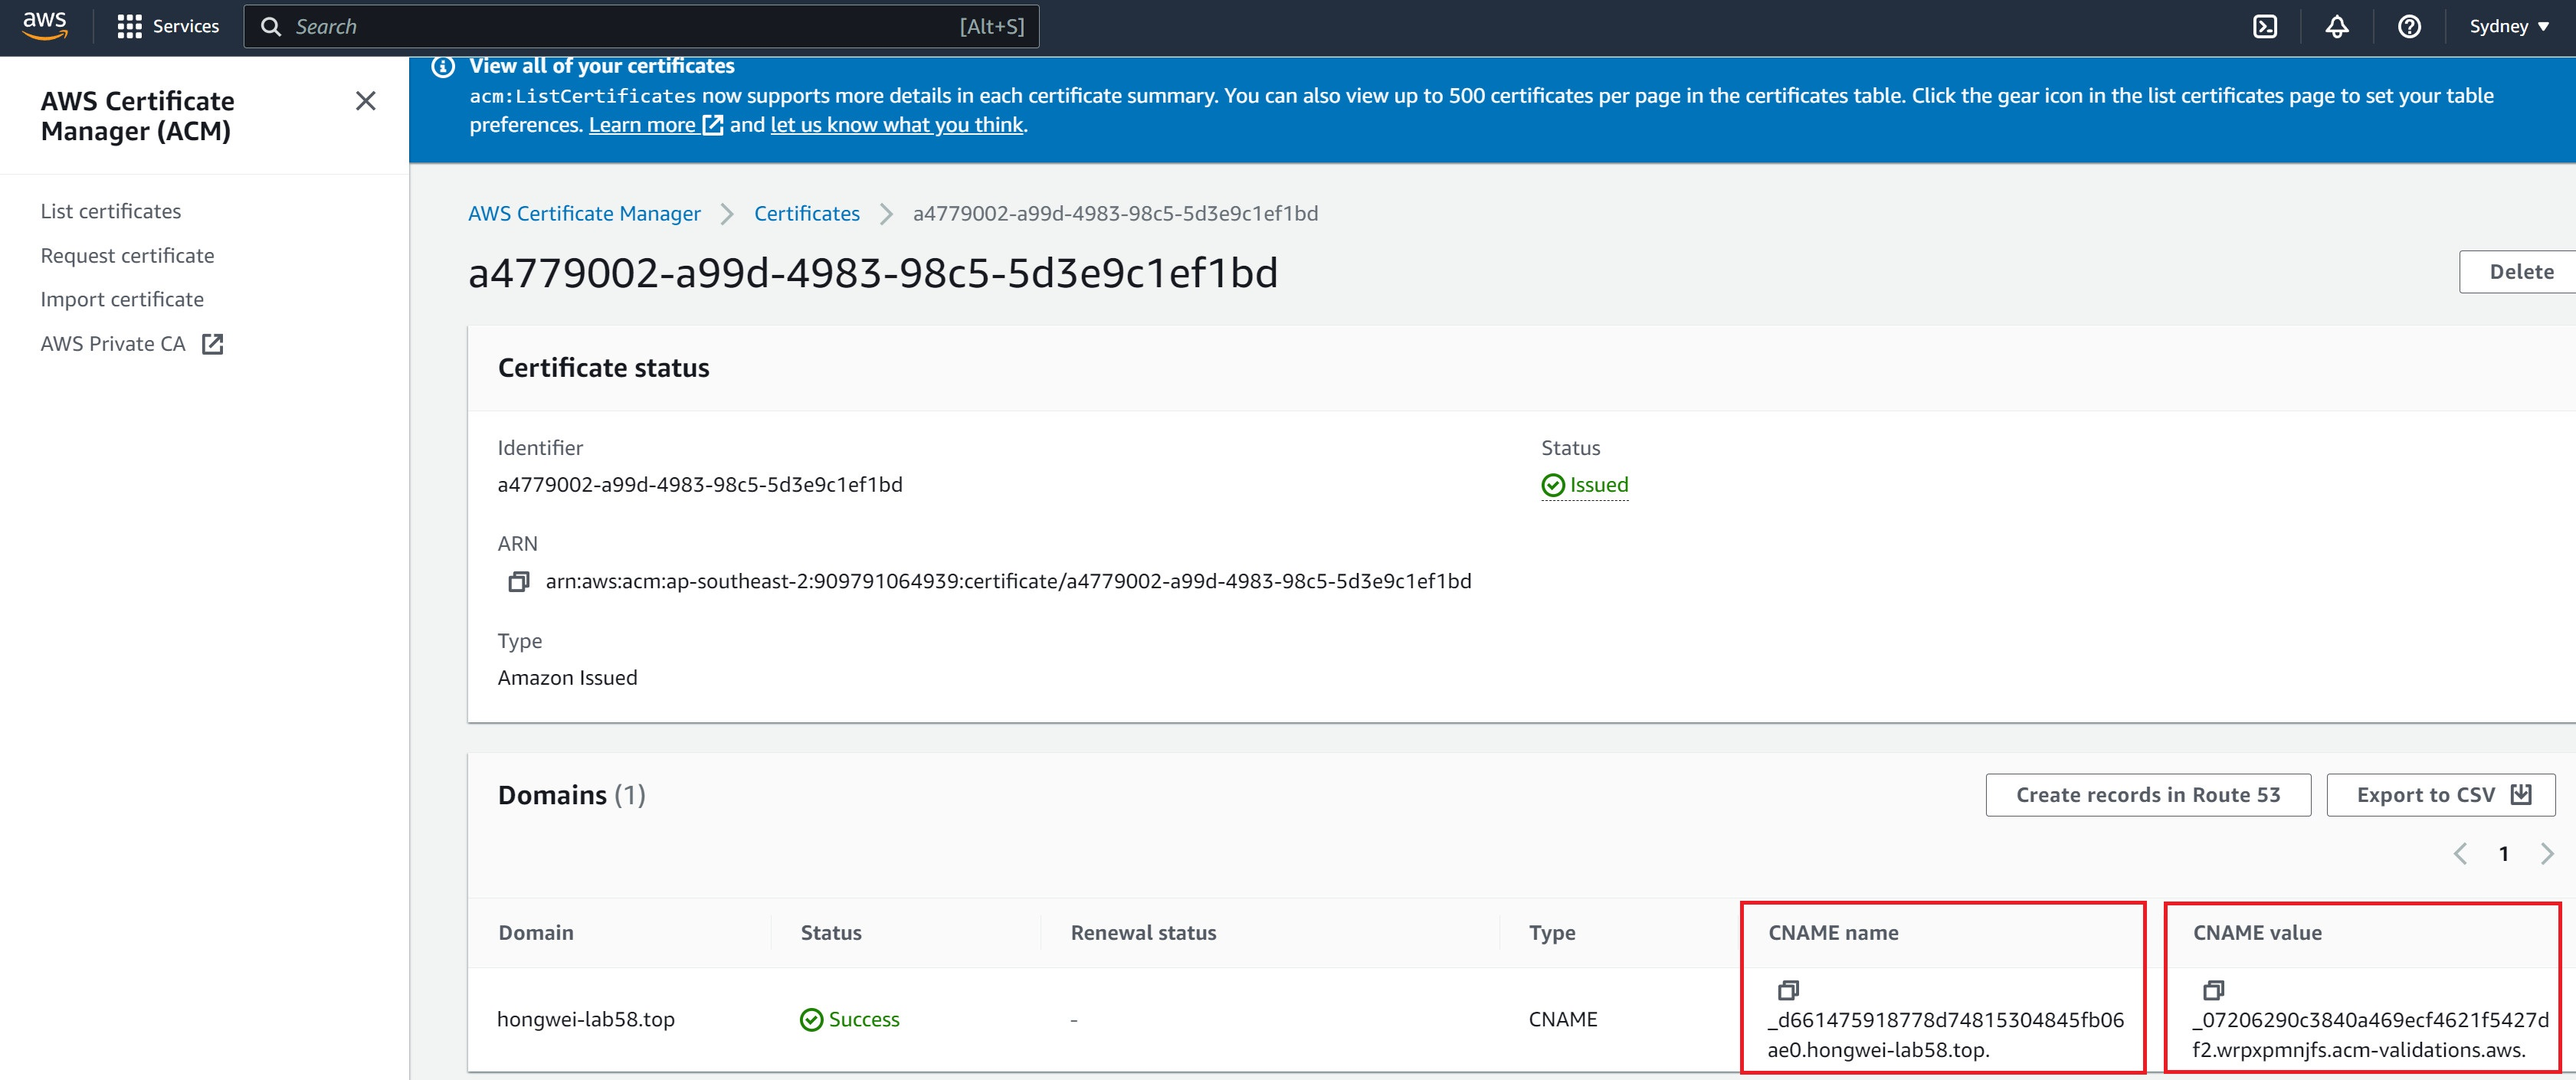
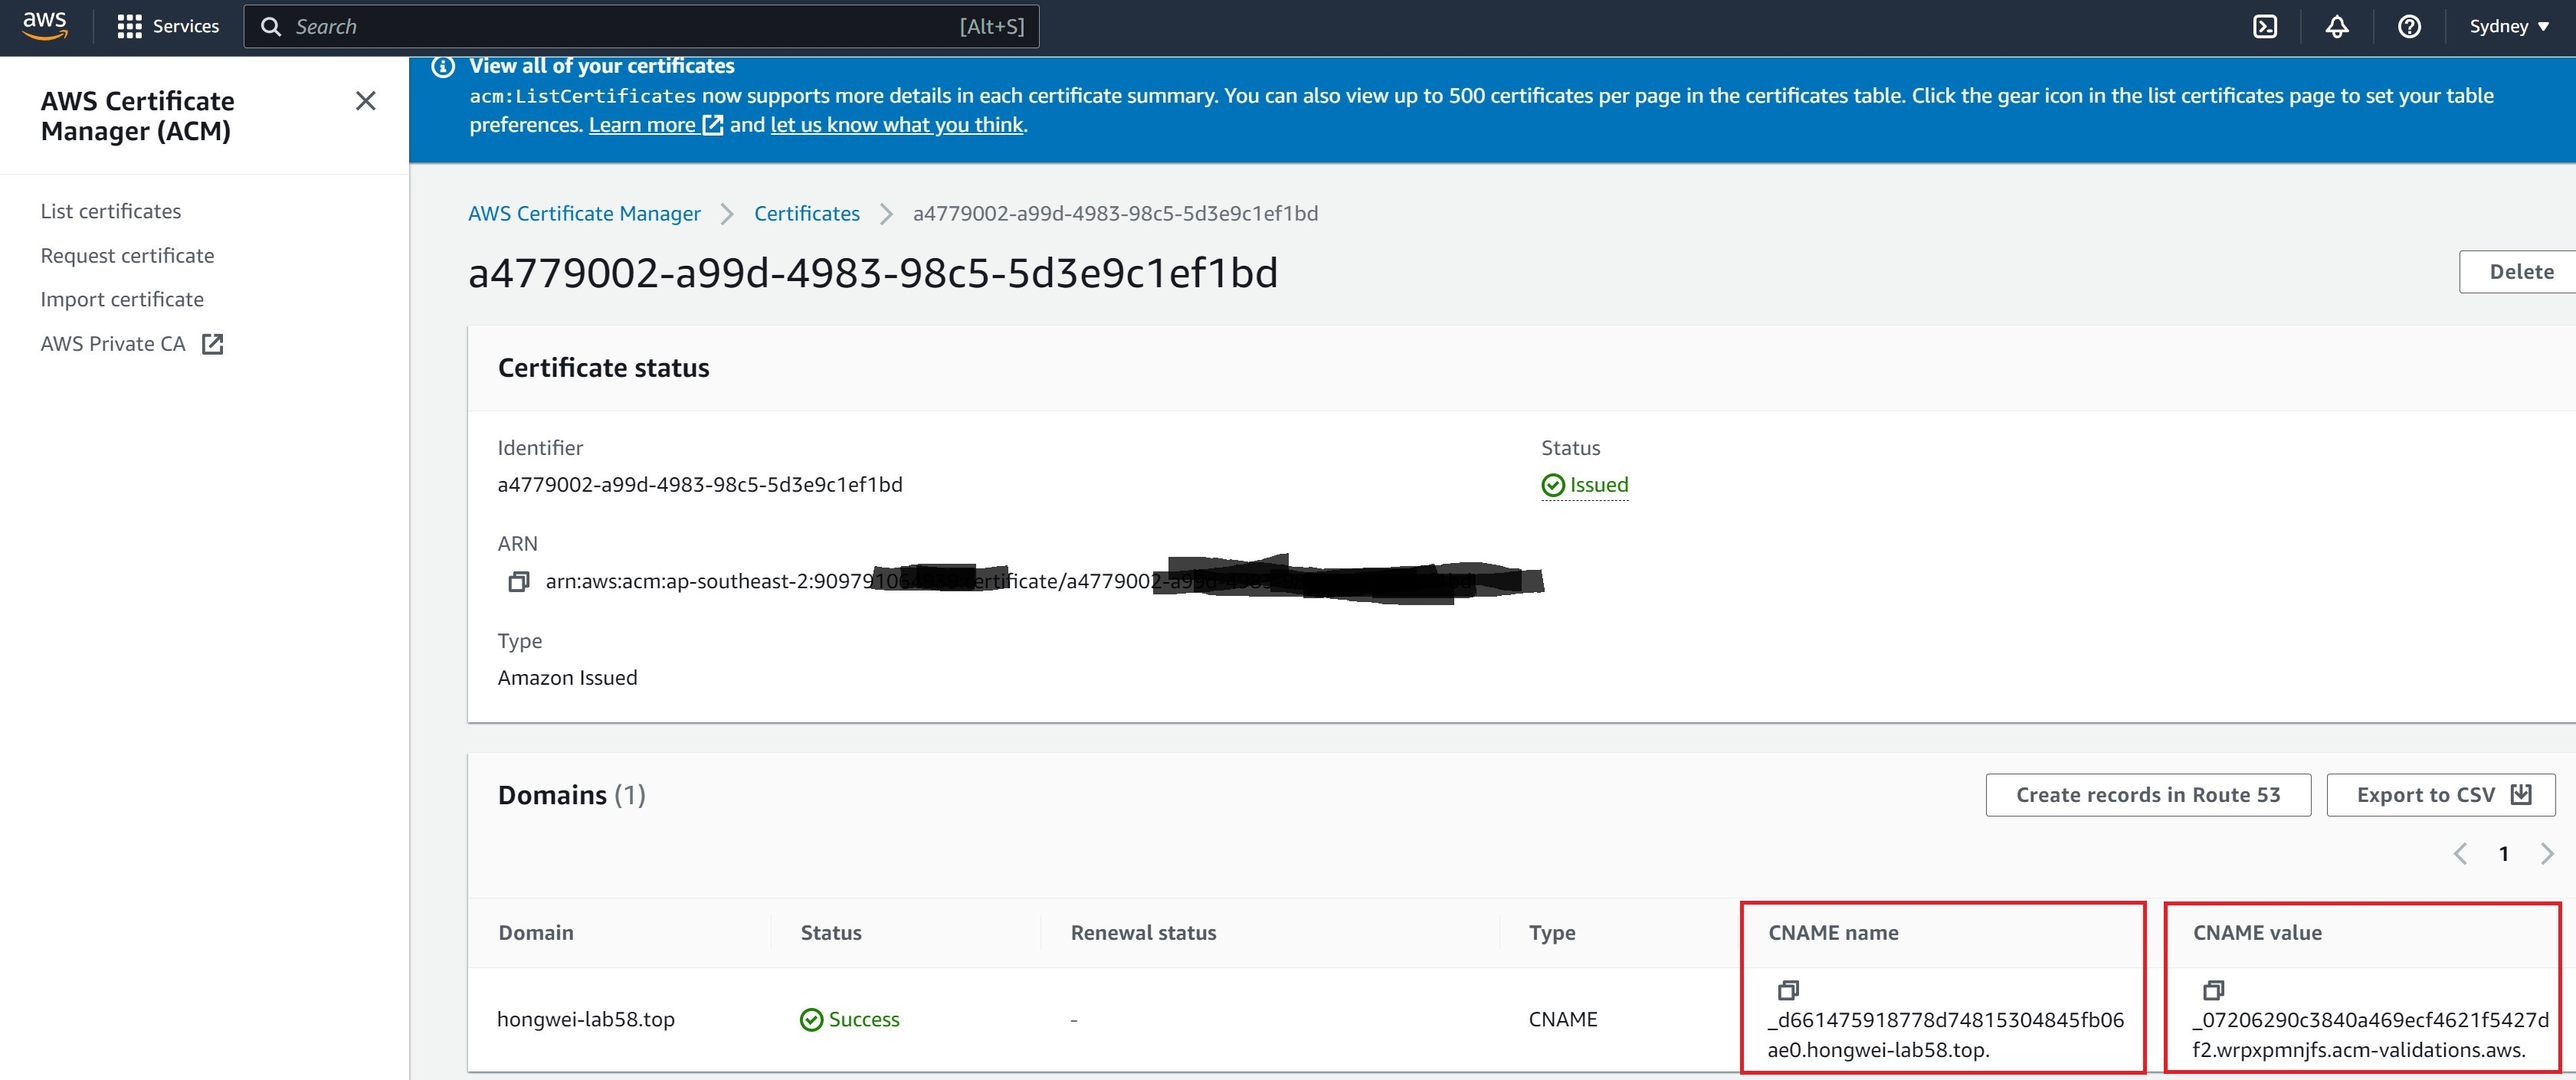
up

Changed region(s): [[0.4372, 0.4993, 0.6246, 0.5617], [0.3435, 0.4993, 0.406, 0.5617]]

diff --git a/ec2/README.md b/ec2/README.md
@@ -23,7 +23,7 @@
 |---|---|---|---|---|---|---|---|
 | www | A | 境外 | 54.206.109.xxx | 10 分钟 | 正常 | | (略) |
 | @ | A | 境外 | 54.206.109.xxx | 10 分钟 | 正常 | | (略) |
-| _d661475918778d74815304845fb06xxx | CNAME | 境外 | _07206290c3840a469ecf4621f5427xxx.wrpxpmnjfs.acm-validations.aws | 10 分钟 | 正常 | | (略) |
+| _d661475918778d7481530xxxxxxxxxxx | CNAME | 境外 | _07206290c3840a4xxxxxxxxxxxxxxxxx.wrpxpxxxxx.acm-validations.aws | 10 分钟 | 正常 | | (略) |
 
 4. 如何使用Nginx+Https+万网域名+AWS ACM公有证书
 
